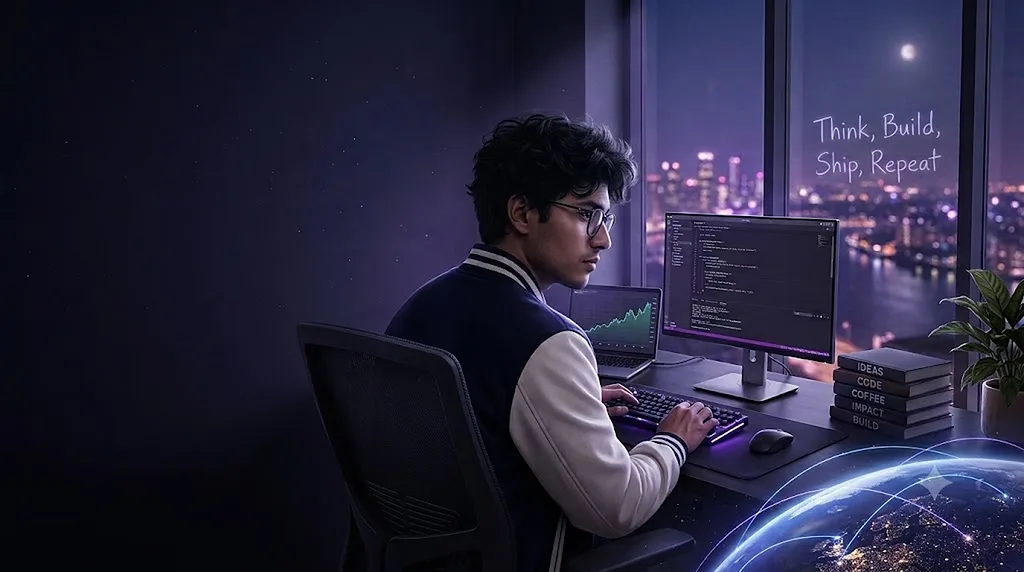
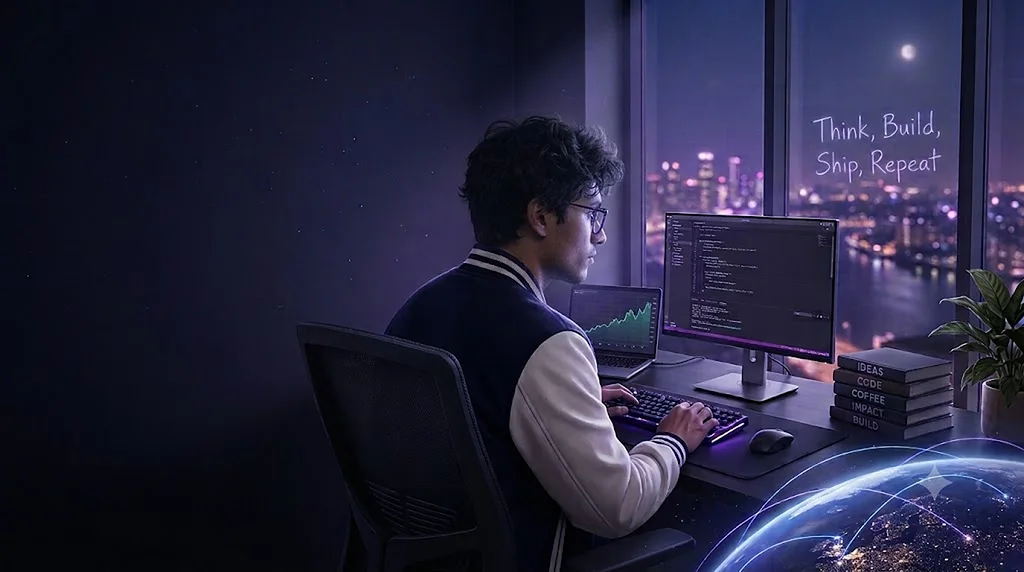
Hero: new photo; he types (hands tap, head nods) and tilts back to think
Claude-Session: https://claude.ai/code/session_01Qawk3MyTPanqCF4Q4GyqYa

diff --git a/components/hero-photo.tsx b/components/hero-photo.tsx
@@ -118,6 +118,25 @@ export default function HeroPhoto({
   }, [])
 
   const coding = !typing.thinking && typing.phase === "typing"
+  // largest candidate in srcSet (works for data: URLs too, which contain commas)
+  const bgSrc = (srcSet && srcSet.trim().match(/(\S+)\s+\d+w\s*$/)?.[1]) || src
+
+  // Pieces of the photo that move: cut out with a soft edge, animated in place.
+  const piece = (x: number, y: number, w: number, h: number, cls: string, origin: string, extra: React.CSSProperties = {}) => (
+    <div
+      className={`absolute ${cls}`}
+      style={{
+        left: x, top: y, width: w, height: h,
+        backgroundImage: `url(${bgSrc})`,
+        backgroundSize: `${IW}px ${IH}px`,
+        backgroundPosition: `${-x}px ${-y}px`,
+        transformOrigin: origin,
+        WebkitMaskImage: "radial-gradient(closest-side, #000 62%, transparent 100%)",
+        maskImage: "radial-gradient(closest-side, #000 62%, transparent 100%)",
+        ...extra,
+      }}
+    />
+  )
 
   return (
     <div ref={box} className={`overflow-hidden ${className}`}>
@@ -147,6 +166,11 @@ export default function HeroPhoto({
               style={{ left: p.x, top: p.y, width: p.s, height: p.s, background: i % 3 ? "#ffd9a0" : "#d4c8ff", boxShadow: `0 0 ${p.s * 3}px ${i % 3 ? "#ffcf8a" : "#b9a9ff"}`, animationDelay: `${p.d}s`, animationDuration: `${2.5 + p.d}s` }}
             />
           ))}
+
+          {/* ---- he moves: head nods while typing, tilts back while thinking; hands tap ---- */}
+          {piece(452, 96, 168, 214, typing.thinking ? "pose-think" : coding ? "pose-nod" : "pose-rest", "70% 92%")}
+          {piece(592, 376, 62, 46, coding ? "tap-a" : "", "50% 100%")}
+          {piece(668, 392, 64, 52, coding ? "tap-b" : "", "50% 100%")}
 
           {/* screen light on his face: flickers while he types, steadies while he thinks */}
           <div

diff --git a/app/globals.css b/app/globals.css
@@ -170,3 +170,14 @@ body {
   animation: laptop-scan 3.2s linear infinite;
 }
 @keyframes laptop-scan { from { transform: translateX(-20px); } to { transform: translateX(100px); } }
+
+/* ---------- typing figure ---------- */
+.tap-a { animation: tap-a 0.26s ease-in-out infinite alternate; }
+.tap-b { animation: tap-b 0.22s ease-in-out infinite alternate; animation-delay: -0.11s; }
+@keyframes tap-a { 0% { transform: translate(0, 0); } 40% { transform: translate(0.5px, 1.9px) scaleY(0.98); } 100% { transform: translate(-0.3px, 0.2px); } }
+@keyframes tap-b { 0% { transform: translate(0, 0.2px); } 50% { transform: translate(-0.6px, 2.1px) scaleY(0.975); } 100% { transform: translate(0.3px, 0); } }
+.pose-nod { animation: pose-nod 1.6s ease-in-out infinite; }
+@keyframes pose-nod { 0%, 100% { transform: rotate(0deg) translateY(0); } 30% { transform: rotate(0.9deg) translateY(0.8px); } 65% { transform: rotate(0.3deg) translateY(0.3px); } }
+.pose-think { transition: transform 0.7s cubic-bezier(.4,0,.2,1); transform: rotate(-1.6deg) translateY(-1.2px); }
+.pose-rest { transition: transform 0.7s cubic-bezier(.4,0,.2,1); transform: none; }
+@media (prefers-reduced-motion: reduce) { .tap-a, .tap-b, .pose-nod { animation: none; } }
